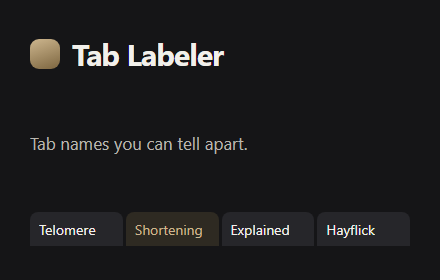
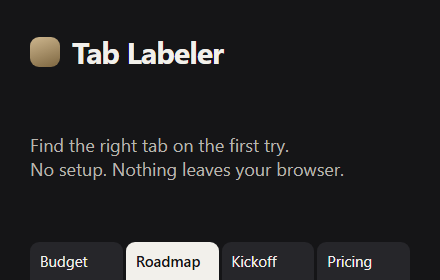
Store assets: general work-focused screenshot, promo tile and copy

diff --git a/store/screenshot-1.html b/store/screenshot-1.html
@@ -1,65 +1,75 @@
 <!doctype html>
 <html><head><meta charset="utf-8"><title>Tab Labeler screenshot</title>
-<!-- Labels below are the real output of labelWindow() at Auto length for these 12 tabs. -->
+<!-- The "With Tab Labeler" labels are the real output of store/demo-labels.js. Re-run it if the rules change. -->
 <style>
 *{box-sizing:border-box;margin:0}
-body{width:1280px;height:800px;background:#F7F6F3;font-family:"Segoe UI",Inter,sans-serif;color:#151517;padding:0 80px;display:flex;flex-direction:column;justify-content:center;gap:52px;overflow:hidden}
-h1{font-size:60px;font-weight:650;letter-spacing:-.03em}
-.sub{font-size:24px;color:#6F6D69;margin-top:12px}
-.label{font-size:16px;letter-spacing:.12em;text-transform:uppercase;color:#6F6D69;margin-bottom:14px}
+body{width:1280px;height:800px;background:#F7F6F3;font-family:"Segoe UI",Inter,sans-serif;color:#151517;padding:0 80px;display:flex;flex-direction:column;justify-content:center;gap:44px;overflow:hidden}
+h1{font-size:56px;font-weight:650;letter-spacing:-.03em}
+.sub{font-size:23px;color:#6F6D69;margin-top:12px}
+.label{font-size:15px;letter-spacing:.12em;text-transform:uppercase;color:#6F6D69;margin-bottom:12px}
 .label.good{color:#A8894F;font-weight:600}
 .strip{background:#DEE3EB;border-radius:14px 14px 0 0;padding:9px 9px 0;display:flex;gap:2px;overflow:hidden}
-.tab{flex:1;min-width:0;height:48px;background:#E9EDF3;border-radius:10px 10px 0 0;display:flex;align-items:center;gap:8px;padding:0 10px;font-size:17px}
+.tab{flex:1;min-width:0;height:46px;background:#E9EDF3;border-radius:10px 10px 0 0;display:flex;align-items:center;gap:8px;padding:0 10px;font-size:17px}
 .tab.on{background:#fff}
 .tab span{white-space:nowrap;overflow:hidden;-webkit-mask-image:linear-gradient(90deg,#000 65%,transparent);mask-image:linear-gradient(90deg,#000 65%,transparent)}
 .ic{flex:none;width:19px;height:19px;border-radius:5px;display:grid;place-items:center;font-size:11px;font-weight:700;font-style:normal;color:#fff}
-.w{background:#5B6470}.g{background:#4C7BD9}.y{background:#C9473D}.d{background:#3D8B5A}.s{background:#E08A2C}.h{background:#24292F}.m{background:#7A5BD0}
-.bar{background:#fff;height:14px;border-radius:0 0 14px 14px}
-.note{font-size:20px;color:#6F6D69;margin-top:14px}
+.sh{background:#2F8F5B}.dc{background:#3D6FD8}.sl{background:#E0A324}.no{background:#2B2B2E}.ml{background:#C9473D}.ca{background:#5A8DEE}.ji{background:#2563C9}.sf{background:#1C9AD6}
+.bar{background:#fff;height:12px;border-radius:0 0 14px 14px}
+.note{font-size:19px;color:#6F6D69;margin-top:12px}
 .note b{color:#151517}
+.feats{display:flex;gap:16px}
+.feat{flex:1;background:#fff;border:1px solid #E6E3DD;border-radius:14px;padding:16px 18px}
+.feat b{display:block;font-size:18px;font-weight:600;margin-bottom:4px}
+.feat span{font-size:15.5px;color:#6F6D69}
 </style></head><body>
 <div>
-  <h1>Tabs you can tell apart.</h1>
-  <p class="sub">With a full tab bar, Chrome shows about 5 letters per tab. Tab Labeler makes them count.</p>
+  <h1>Find the right tab on the first try.</h1>
+  <p class="sub">With a full tab bar, Chrome shows about five letters per tab. Tab Labeler puts the word that matters first.</p>
 </div>
 
 <div>
   <p class="label">Without</p>
   <div class="strip">
-    <div class="tab"><i class="ic w">W</i><span>Telomere - Wikipedia</span></div>
-    <div class="tab"><i class="ic g">G</i><span>telomere shortening aging</span></div>
-    <div class="tab"><i class="ic y">▶</i><span>telomeres explained</span></div>
-    <div class="tab"><i class="ic w">W</i><span>Hayflick limit</span></div>
-    <div class="tab"><i class="ic w">W</i><span>Telomerase reverse</span></div>
-    <div class="tab"><i class="ic g">G</i><span>telomere length cancer</span></div>
-    <div class="tab"><i class="ic d">D</i><span>Lab Notes - Google Docs</span></div>
-    <div class="tab"><i class="ic s">S</i><span>python - How do I</span></div>
-    <div class="tab on"><i class="ic h">G</i><span>GitHub - octo/tab</span></div>
-    <div class="tab"><i class="ic m">M</i><span>(3) Inbox - you@</span></div>
-    <div class="tab"><i class="ic w">W</i><span>Alternative lengthening</span></div>
-    <div class="tab"><i class="ic g">G</i><span>Sirtuins and aging</span></div>
+    <div class="tab"><i class="ic sh">S</i><span>Project Atlas Budget</span></div>
+    <div class="tab"><i class="ic dc">D</i><span>Project Atlas Roadmap</span></div>
+    <div class="tab"><i class="ic sl">P</i><span>Project Atlas Kickoff</span></div>
+    <div class="tab"><i class="ic no">N</i><span>Project Atlas Hiring</span></div>
+    <div class="tab"><i class="ic ml">M</i><span>Inbox (12) - you@</span></div>
+    <div class="tab"><i class="ic ca">C</i><span>Weekly Team Sync</span></div>
+    <div class="tab on"><i class="ic ji">J</i><span>PROJ-142 Fix login</span></div>
+    <div class="tab"><i class="ic ji">J</i><span>PROJ-157 Pricing</span></div>
+    <div class="tab"><i class="ic dc">D</i><span>Vendor Contract Draft</span></div>
+    <div class="tab"><i class="ic dc">D</i><span>Customer Feedback</span></div>
+    <div class="tab"><i class="ic sf">S</i><span>Acme Corp Renewal</span></div>
+    <div class="tab"><i class="ic no">N</i><span>Onboarding Checklist</span></div>
   </div>
   <div class="bar"></div>
-  <p class="note">Five tabs start with "Telom". Which one was the video?</p>
+  <p class="note">Six tabs look the same. You click through them one by one.</p>
 </div>
 
 <div>
   <p class="label good">With Tab Labeler</p>
   <div class="strip">
-    <div class="tab"><i class="ic w">W</i><span>Telomere</span></div>
-    <div class="tab"><i class="ic g">G</i><span>Shortening</span></div>
-    <div class="tab"><i class="ic y">▶</i><span>Explained</span></div>
-    <div class="tab"><i class="ic w">W</i><span>Hayflick</span></div>
-    <div class="tab"><i class="ic w">W</i><span>Reverse</span></div>
-    <div class="tab"><i class="ic g">G</i><span>Cancer</span></div>
-    <div class="tab"><i class="ic d">D</i><span>Lab Notes</span></div>
-    <div class="tab"><i class="ic s">S</i><span>Merge</span></div>
-    <div class="tab on"><i class="ic h">G</i><span>tab-labeler</span></div>
-    <div class="tab"><i class="ic m">M</i><span>(3) Inbox</span></div>
-    <div class="tab"><i class="ic w">W</i><span>Alternative</span></div>
-    <div class="tab"><i class="ic g">G</i><span>Sirtuins</span></div>
+    <div class="tab"><i class="ic sh">S</i><span>Budget</span></div>
+    <div class="tab"><i class="ic dc">D</i><span>Roadmap</span></div>
+    <div class="tab"><i class="ic sl">P</i><span>Kickoff</span></div>
+    <div class="tab"><i class="ic no">N</i><span>Hiring</span></div>
+    <div class="tab"><i class="ic ml">M</i><span>Inbox (12)</span></div>
+    <div class="tab"><i class="ic ca">C</i><span>Weekly</span></div>
+    <div class="tab on"><i class="ic ji">J</i><span>Login timeout</span></div>
+    <div class="tab"><i class="ic ji">J</i><span>Pricing</span></div>
+    <div class="tab"><i class="ic dc">D</i><span>Vendor</span></div>
+    <div class="tab"><i class="ic dc">D</i><span>Customer</span></div>
+    <div class="tab"><i class="ic sf">S</i><span>Acme Corp</span></div>
+    <div class="tab"><i class="ic no">N</i><span>Onboarding</span></div>
   </div>
   <div class="bar"></div>
-  <p class="note">Each tab leads with the word <b>only it has</b>. The icon already shows the site.</p>
+  <p class="note">Every tab leads with the word <b>only it has</b>. The icon already shows the app.</p>
+</div>
+
+<div class="feats">
+  <div class="feat"><b>Zero setup</b><span>Install it and keep working. No account.</span></div>
+  <div class="feat"><b>Adapts as you work</b><span>Labels shrink as tabs pile up, grow back as you close them.</span></div>
+  <div class="feat"><b>Private</b><span>Runs in your browser. Nothing is sent anywhere.</span></div>
 </div>
 </body></html>

diff --git a/store/promo-small.html b/store/promo-small.html
@@ -2,16 +2,16 @@
 <html><head><meta charset="utf-8"><title>Tab Labeler promo</title>
 <style>
 *{box-sizing:border-box;margin:0}
-body{width:440px;height:280px;background:#151517;color:#F2F0EB;font-family:"Segoe UI",Inter,sans-serif;padding:34px 30px;display:flex;flex-direction:column;justify-content:space-between;overflow:hidden}
+body{width:440px;height:280px;background:#151517;color:#F2F0EB;font-family:"Segoe UI",Inter,sans-serif;padding:32px 30px 0;display:flex;flex-direction:column;justify-content:space-between;overflow:hidden}
 .top{display:flex;align-items:center;gap:12px}
 .mark{width:30px;height:30px;border-radius:9px;background:linear-gradient(160deg,#CDB68E,#7d6640)}
 h1{font-size:30px;font-weight:650;letter-spacing:-.03em}
-p{font-size:17px;color:#B9B6AF}
+p{font-size:18px;color:#B9B6AF;line-height:1.35}
 .strip{display:flex;gap:3px}
-.t{flex:1;height:34px;border-radius:8px 8px 0 0;background:#26262A;font-size:14px;display:flex;align-items:center;padding:0 9px;white-space:nowrap;overflow:hidden;color:#F2F0EB}
-.t.g{background:#2E2A22;color:#CDB68E}
+.t{flex:1;height:38px;border-radius:9px 9px 0 0;background:#26262A;font-size:15px;display:flex;align-items:center;padding:0 10px;white-space:nowrap;overflow:hidden;color:#F2F0EB}
+.t.g{background:#F2F0EB;color:#151517;font-weight:600}
 </style></head><body>
 <div class="top"><span class="mark"></span><h1>Tab Labeler</h1></div>
-<p>Tab names you can tell apart.</p>
-<div class="strip"><div class="t">Telomere</div><div class="t g">Shortening</div><div class="t">Explained</div><div class="t">Hayflick</div></div>
+<p>Find the right tab on the first try.<br>No setup. Nothing leaves your browser.</p>
+<div class="strip"><div class="t">Budget</div><div class="t g">Roadmap</div><div class="t">Kickoff</div><div class="t">Pricing</div></div>
 </body></html>

diff --git a/store/demo-labels.js b/store/demo-labels.js
@@ -1,0 +1,19 @@
+// Prints the real labels for the store screenshot's tabs, so the image never shows invented output.
+// Run: node store/demo-labels.js
+const { labelWindow } = require('../extension/clean.js');
+const rows = [
+  ['Project Atlas Budget - Google Sheets', 'https://docs.google.com/spreadsheets/d/a'],
+  ['Project Atlas Roadmap - Google Docs', 'https://docs.google.com/document/d/b'],
+  ['Project Atlas Kickoff Deck - Google Slides', 'https://docs.google.com/presentation/d/c'],
+  ['Project Atlas Hiring Plan - Notion', 'https://www.notion.so/atlas-hiring'],
+  ['Inbox (12) - you@company.com - Company Mail', 'https://mail.google.com/mail/u/0/#inbox'],
+  ['Weekly Team Sync - Calendar', 'https://calendar.google.com/calendar/r'],
+  ['PROJ-142 Fix login timeout - Jira', 'https://company.atlassian.net/browse/PROJ-142'],
+  ['PROJ-157 Pricing page redesign - Jira','https://company.atlassian.net/browse/PROJ-157'],
+  ['Vendor Contract Draft - Google Docs', 'https://docs.google.com/document/d/d'],
+  ['Customer Feedback Summary - Google Docs', 'https://docs.google.com/document/d/e'],
+  ['Acme Corp Renewal | Salesforce', 'https://company.lightning.force.com/r/1'],
+  ['Onboarding Checklist - Notion', 'https://www.notion.so/onboarding'],
+].map(([title, url], id) => ({ id, title, url }));
+const L = labelWindow(rows, 9);
+rows.forEach(r => console.log(JSON.stringify(L[r.id]).padEnd(22), r.title));

diff --git a/store/LISTING.md b/store/LISTING.md
@@ -11,11 +11,13 @@ Tab names you can tell apart. Each tab leads with the word that makes it differe
 
 **Description:**
 ```
-With 15 tabs open, Chrome shows about five letters per tab. Research one topic and every tab reads the same: "Telom", "Telom", "Telom".
+Find the right tab on the first try.
 
-Tab Labeler gives every tab a short label you can tell apart.
+With 12+ tabs open, Chrome shows about five letters per tab. Work on one project and half your tabs read the same: "Proje", "Proje", "PROJ-".
 
-• Every tab starts differently. Each label leads with the word only that tab has: "Shortening", "Hayflick", "Explained", instead of a row of identical stubs.
+Tab Labeler gives every tab a short label you can tell apart. No setup, no account: install it and keep working.
+
+• Every tab starts differently. Each label leads with the word only that tab has: "Budget", "Roadmap", "Pricing", instead of a row of identical stubs.
 • Fits your tab bar. Labels shrink to the key words as you open more tabs and grow back when you close them. Pinned tabs don't count.
 • Cleans up clutter. Removes site names, notification counts and "Amazon.com:" style prefixes. The tab's icon already shows the site.
 • Keeps up with pages that change their own titles (Gmail, YouTube, single-page apps).

diff --git a/README.md b/README.md
@@ -6,7 +6,7 @@ Tab names you can tell apart, even with 20 tabs open.
 `Lab Notes - Google Docs` → **Lab Notes**
 `python - How do I merge two dictionaries…? - Stack Overflow` → **How do I merge two…**
 
-- **Every tab starts differently.** Telomere tabs become *Shortening*, *Hayflick*, *Explained*, *Alternative* instead of a row of tabs that all read "Telom…". Each label leads with the word only that tab has; the tab's icon already shows the site.
+- **Every tab starts differently.** "Project Atlas Budget", "Project Atlas Roadmap" and "PROJ-157 Pricing page redesign" become *Budget*, *Roadmap*, *Pricing* instead of a row of tabs that all read "Proje…". Each label leads with the word only that tab has; the tab's icon already shows the site.
 - **Fits your tab bar.** Labels shrink to the key words as you open more tabs, and grow back when you close them. Pinned tabs don't count.
 - Removes site names, notification counts, and clutter automatically
 - Keeps up with pages that change their own titles (Gmail, YouTube, Slack…)
